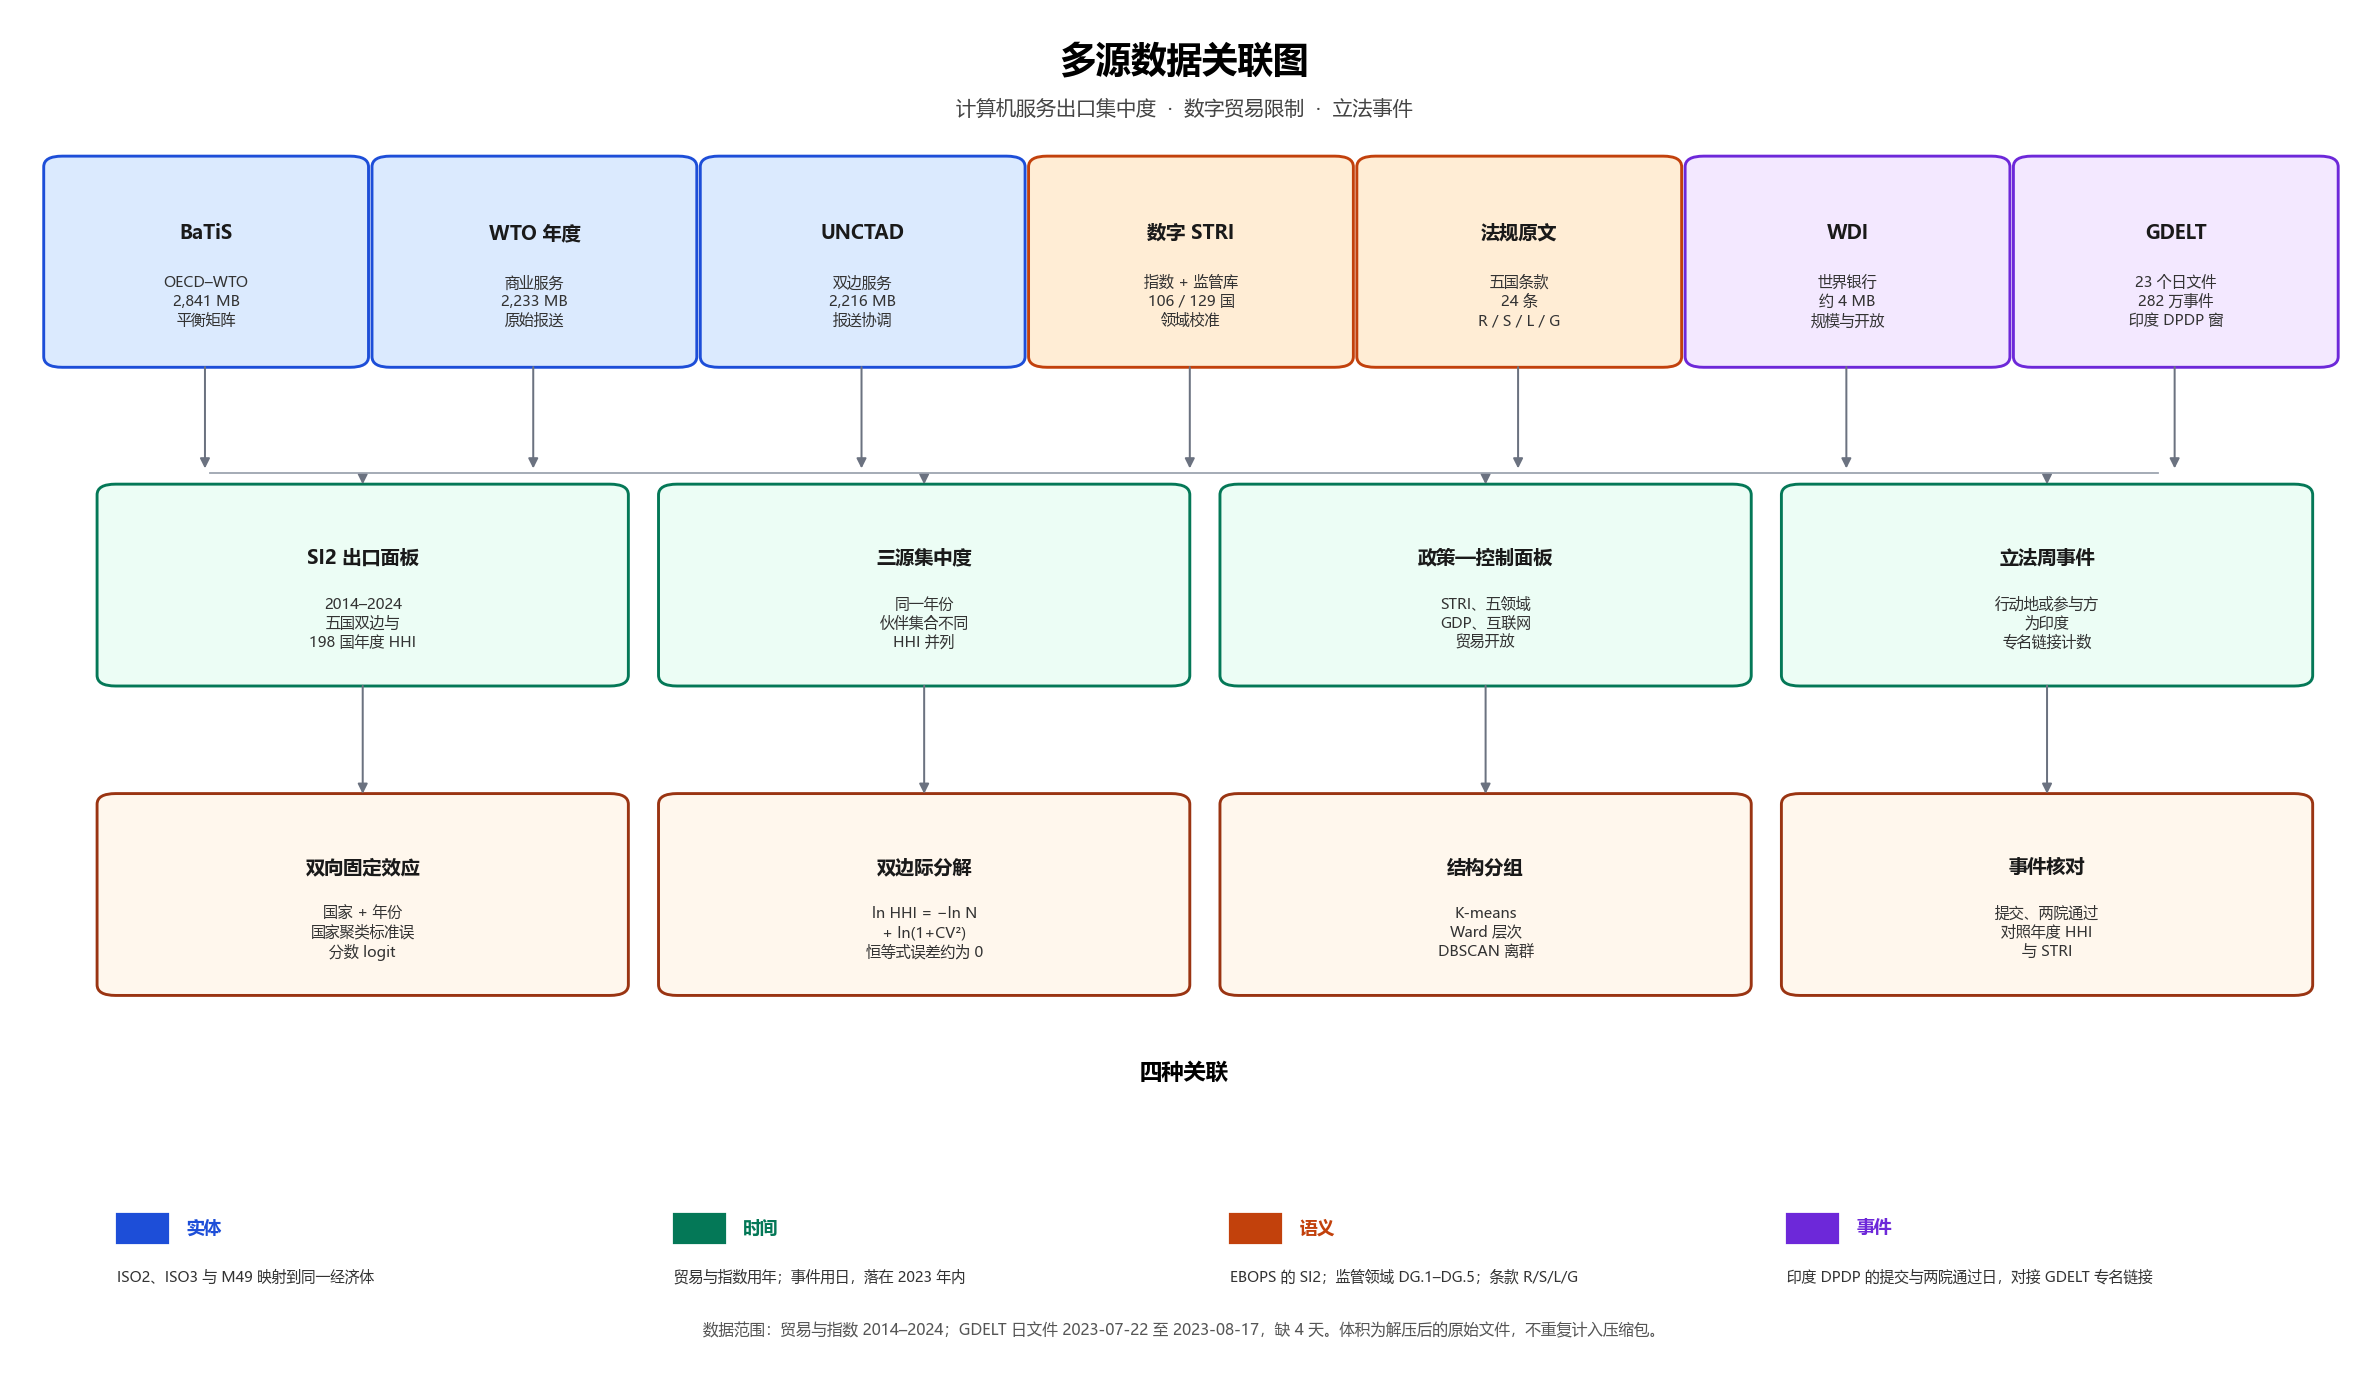
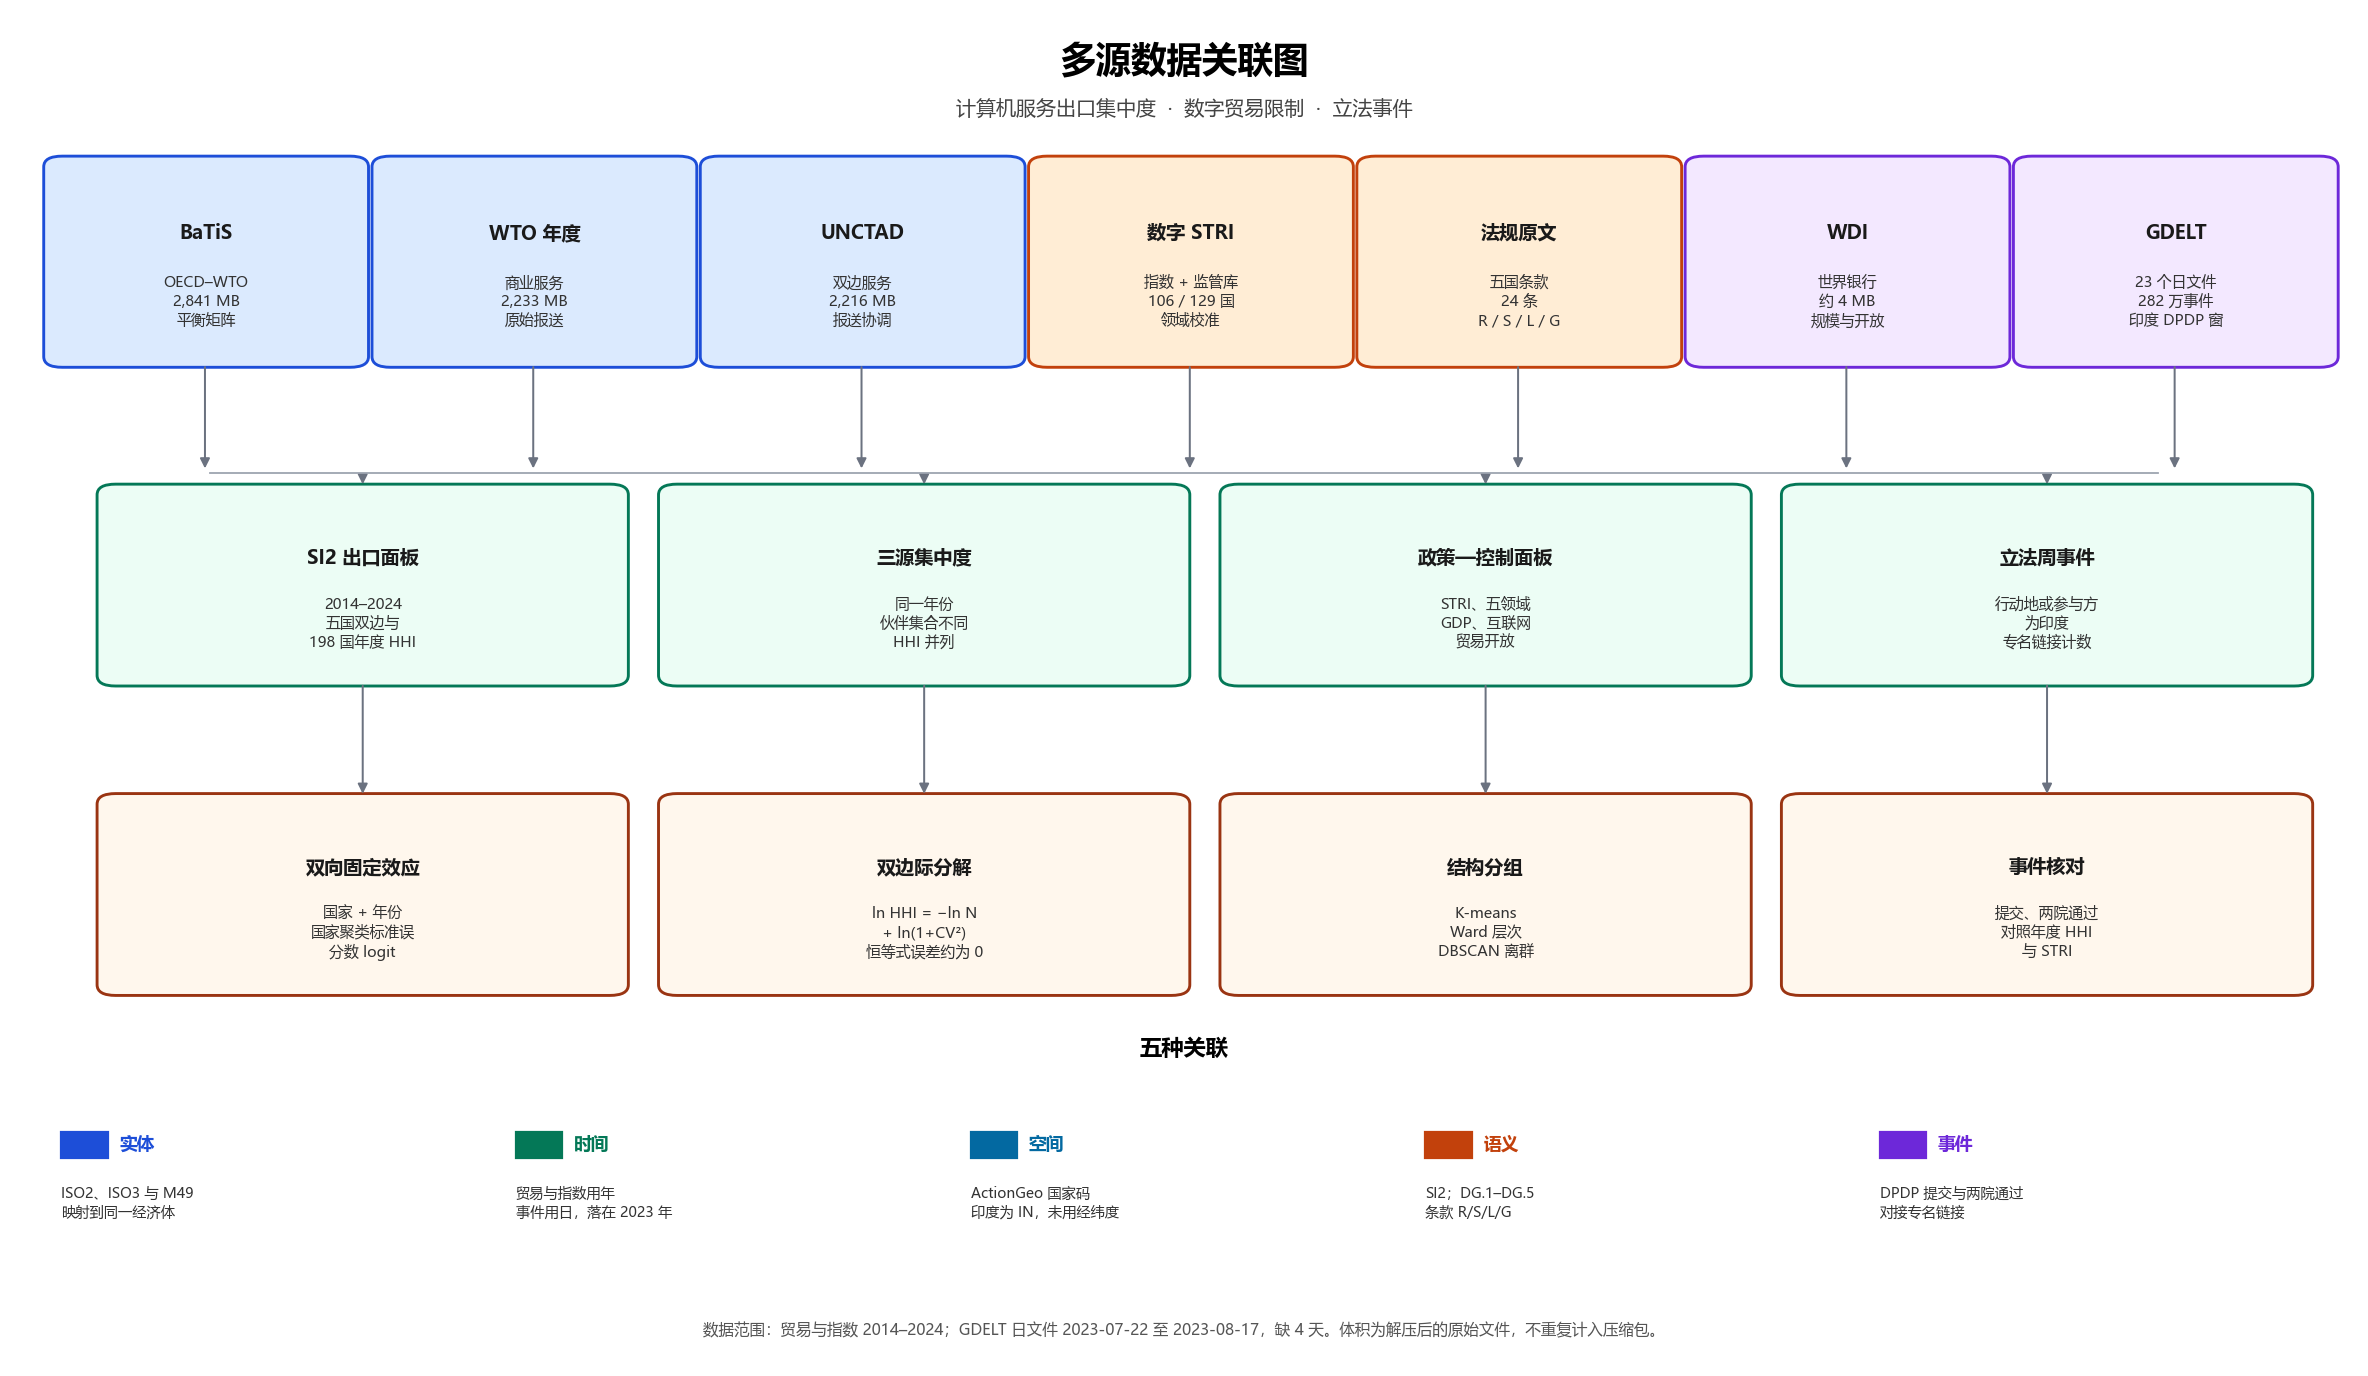
关联图补上空间：GDELT 行动地国家码把事件落到印度，未使用经纬度。

diff --git a/visualization/06_draw_lineage.py b/visualization/06_draw_lineage.py
@@ -88,19 +88,20 @@ for i, (title, sub, fc, ec) in enumerate(low):
     box(3.5 + i * 24.2, 27.2, 22.2, 14.5, title, sub, fc, ec)
     arrow(3.5 + i * 24.2 + 11.1, 50.5, 41.7)
 
-ax.text(50, 20.6, "\u56db\u79cd\u5173\u8054", ha="center", fontsize=10, fontweight="bold")
+ax.text(50, 22.4, "\u4e94\u79cd\u5173\u8054", ha="center", fontsize=10, fontweight="bold")
 notes = [
-    ("#1d4ed8", "\u5b9e\u4f53", "ISO2\u3001ISO3 \u4e0e M49 \u6620\u5c04\u5230\u540c\u4e00\u7ecf\u6d4e\u4f53"),
-    ("#047857", "\u65f6\u95f4", "\u8d38\u6613\u4e0e\u6307\u6570\u7528\u5e74\uff1b\u4e8b\u4ef6\u7528\u65e5\uff0c\u843d\u5728 2023 \u5e74\u5185"),
-    ("#c2410c", "\u8bed\u4e49", "EBOPS \u7684 SI2\uff1b\u76d1\u7ba1\u9886\u57df DG.1\u2013DG.5\uff1b\u6761\u6b3e R/S/L/G"),
-    ("#6d28d9", "\u4e8b\u4ef6", "\u5370\u5ea6 DPDP \u7684\u63d0\u4ea4\u4e0e\u4e24\u9662\u901a\u8fc7\u65e5\uff0c\u5bf9\u63a5 GDELT \u4e13\u540d\u94fe\u63a5"),
+    ("#1d4ed8", "\u5b9e\u4f53", "ISO2\u3001ISO3 \u4e0e M49\n\u6620\u5c04\u5230\u540c\u4e00\u7ecf\u6d4e\u4f53"),
+    ("#047857", "\u65f6\u95f4", "\u8d38\u6613\u4e0e\u6307\u6570\u7528\u5e74\n\u4e8b\u4ef6\u7528\u65e5\uff0c\u843d\u5728 2023 \u5e74"),
+    ("#0369a1", "\u7a7a\u95f4", "ActionGeo \u56fd\u5bb6\u7801\n\u5370\u5ea6\u4e3a IN\uff0c\u672a\u7528\u7ecf\u7eac\u5ea6"),
+    ("#c2410c", "\u8bed\u4e49", "SI2\uff1bDG.1\u2013DG.5\n\u6761\u6b3e R/S/L/G"),
+    ("#6d28d9", "\u4e8b\u4ef6", "DPDP \u63d0\u4ea4\u4e0e\u4e24\u9662\u901a\u8fc7\n\u5bf9\u63a5\u4e13\u540d\u94fe\u63a5"),
 ]
 for i, (color, name, text) in enumerate(notes):
-    x = 4 + (i % 4) * 24
-    ax.add_patch(FancyBboxPatch((x, 8.2), 2.2, 2.2, boxstyle="square,pad=0",
+    x = 1.6 + i * 19.6
+    ax.add_patch(FancyBboxPatch((x, 14.6), 2.0, 2.0, boxstyle="square,pad=0",
                                 facecolor=color, edgecolor=color))
-    ax.text(x + 3.0, 9.3, name, ha="left", va="center", fontsize=8, fontweight="bold", color=color)
-    ax.text(x, 5.6, text, ha="left", va="center", fontsize=6.6, color="#333333")
+    ax.text(x + 2.5, 15.6, name, ha="left", va="center", fontsize=8, fontweight="bold", color=color)
+    ax.text(x, 11.2, text, ha="left", va="center", fontsize=6.4, color="#333333")
 
 ax.text(50, 1.6,
         "\u6570\u636e\u8303\u56f4\uff1a\u8d38\u6613\u4e0e\u6307\u6570 2014\u20132024\uff1bGDELT \u65e5\u6587\u4ef6 2023-07-22 \u81f3 2023-08-17\uff0c\u7f3a 4 \u5929\u3002"
